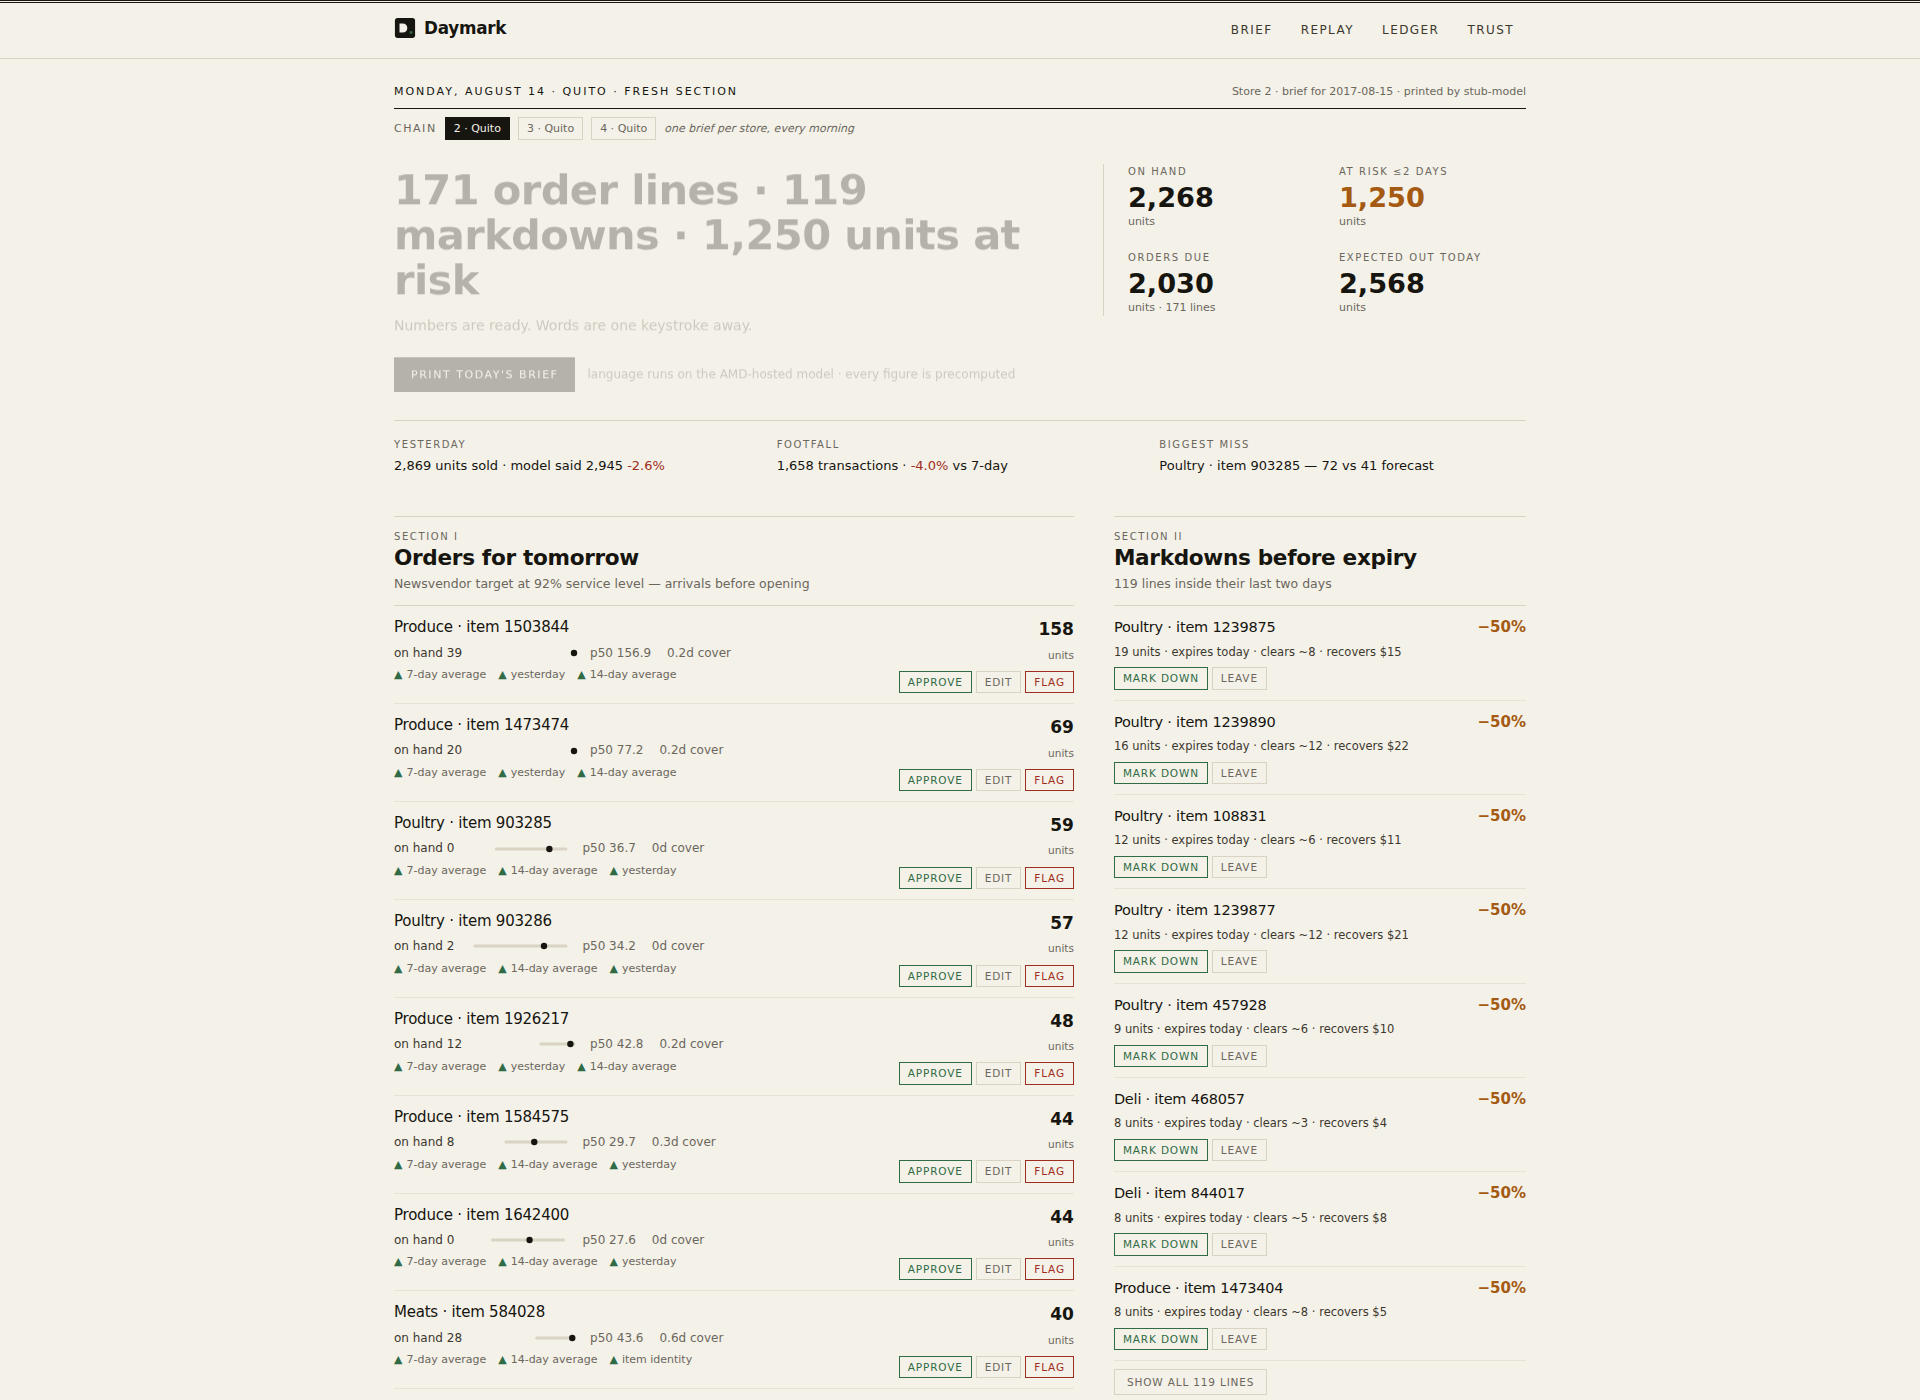
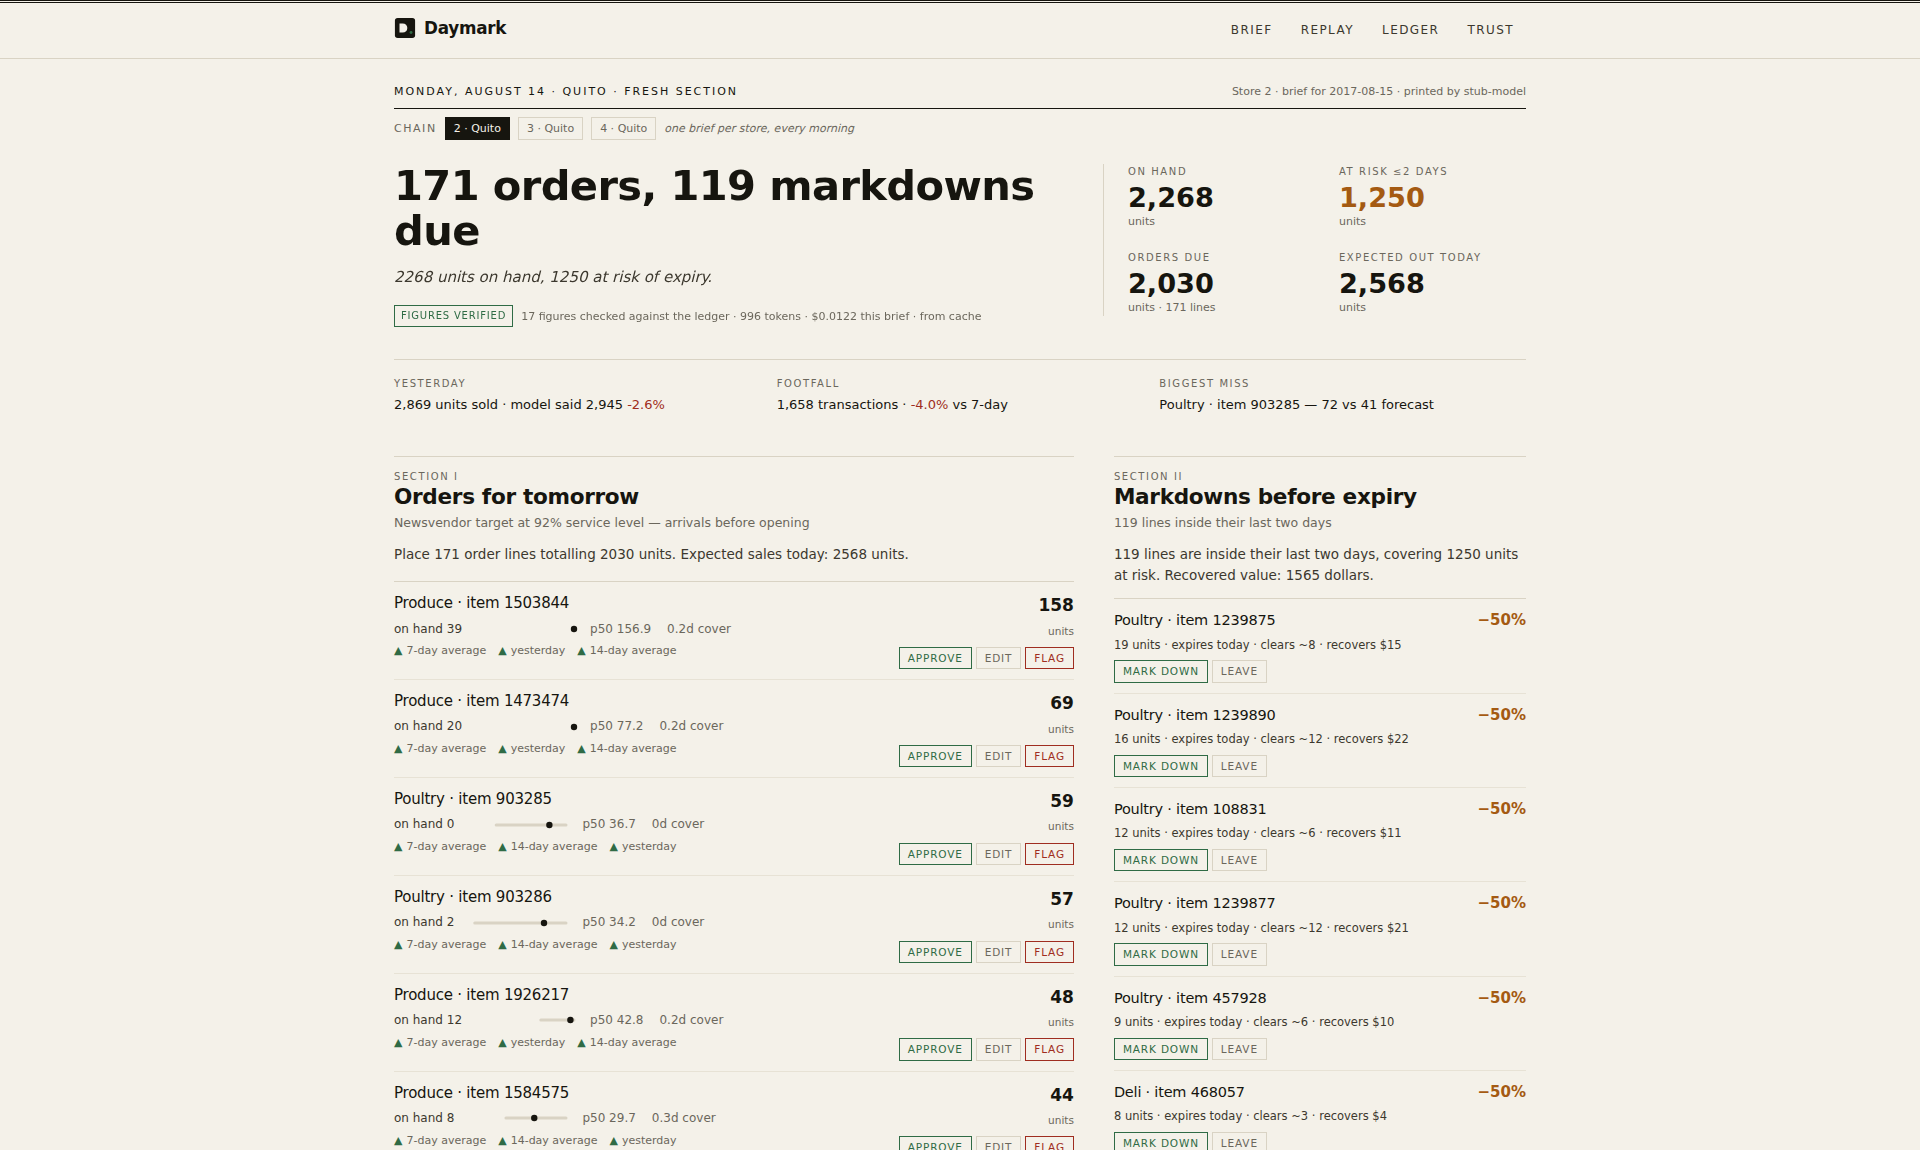
feat: published-brief endpoint (the 6am edition is already there), condensed LLM payload
- GET /api/brief/:store/published serves the cached edition on load
- llm_facts(): the model receives totals + top lines only — prompts drop from
  ~33k to ~1k tokens (34x), and grounding tightens to 'figures you were shown'
- cover_days sentinel fixes a cache round-trip bug (serde_json maps Infinity to null)
- screenshots embedded in the README; stub test double follows the new contract

diff --git a/web/src/app/page.tsx b/web/src/app/page.tsx
@@ -1,5 +1,5 @@
 import BriefClient from "@/components/brief/brief-client";
-import { BriefFacts, Health, Meta, getJSON } from "@/lib/api";
+import { BriefFacts, BriefResponse, Health, Meta, getJSON } from "@/lib/api";
 
 export const instant = false;
 
@@ -12,6 +12,7 @@ export default async function Page(props: {
   const date = sp.date ?? "2017-08-14";
 
   let facts: BriefFacts | null = null;
+  let published: BriefResponse | null = null;
   let model = "";
   let stores: { store_nbr: number; city: string }[] = [];
   try {
@@ -26,6 +27,22 @@ export default async function Page(props: {
   } catch {
     facts = null;
   }
+  if (facts) {
+    try {
+      published = await getJSON<BriefResponse>(`/api/brief/${store}/published?date=${date}`);
+    } catch {
+      published = null; // not printed yet — the manager still sees the numbers
+    }
+  }
 
-  return <BriefClient store={store} date={date} initialFacts={facts} model={model} stores={stores} />;
+  return (
+    <BriefClient
+      store={store}
+      date={date}
+      initialFacts={facts}
+      initialBrief={published}
+      model={model}
+      stores={stores}
+    />
+  );
 }

diff --git a/web/src/components/brief/brief-client.tsx b/web/src/components/brief/brief-client.tsx
@@ -102,17 +102,19 @@ export default function BriefClient({
   store,
   date,
   initialFacts,
+  initialBrief,
   model,
   stores,
 }: {
   store: number;
   date: string;
   initialFacts: BriefFacts | null;
+  initialBrief: BriefResponse | null;
   model: string;
   stores: { store_nbr: number; city: string }[];
 }) {
   const [facts] = useState<BriefFacts | null>(initialFacts);
-  const [brief, setBrief] = useState<BriefResponse | null>(null);
+  const [brief, setBrief] = useState<BriefResponse | null>(initialBrief);
   const [printing, setPrinting] = useState(false);
   const [error, setError] = useState<string | null>(null);
   const [decisions, setDecisions] = useState<DecisionState>({});

diff --git a/backend/src/brief.rs b/backend/src/brief.rs
@@ -161,6 +161,14 @@ pub struct BriefResponse {
     pub cached: bool,
 }
 
+/// Days of cover. Uses a finite sentinel instead of infinity so every fact
+/// round-trips through JSON (serde_json maps non-finite floats to null).
+pub const COVER_DAYS_UNKNOWN: f64 = 999.0;
+
+pub fn cover_days(onhand: f64, avg_daily: f64) -> f64 {
+    if avg_daily > 0.05 { onhand / avg_daily } else { COVER_DAYS_UNKNOWN }
+}
+
 fn why_chips(art: &ArtifactStore, store: i16, item: i32, k: usize) -> Vec<WhyChip> {
     art.attributions
         .get(&(store, item))
@@ -266,7 +274,7 @@ pub fn build_facts(art: &ArtifactStore, store: i16, date: NaiveDate) -> Result<B
                     label: item.label(),
                     family: item.family.clone(),
                     onhand,
-                    cover_days: if avg28 > 0.05 { onhand / avg28 } else { f64::INFINITY },
+                    cover_days: cover_days(onhand, avg28),
                     p10: row.p10,
                     p50: row.p50,
                     p90: row.p90,
@@ -314,7 +322,7 @@ pub fn build_facts(art: &ArtifactStore, store: i16, date: NaiveDate) -> Result<B
         let lift_raw = art.family_lift_pct(&item.family);
         let lift = lift_raw.min(MARKDOWN_LIFT_CAP);
         if let (Some(row), true) = (tomorrow, lift >= 10.0) {
-            let cover = if avg28 > 0.05 { onhand / avg28 } else { f64::INFINITY };
+            let cover = cover_days(onhand, avg28);
             let shelf = item.shelf_life_days as f64;
             if cover > shelf * 0.8 && row.p50 > 0.5 {
                 let incremental = row.p50 * lift / 100.0;
@@ -423,7 +431,7 @@ pub fn build_facts(art: &ArtifactStore, store: i16, date: NaiveDate) -> Result<B
 
     // NOTE: orders and markdowns are returned in full — the manager approves
     // what the totals count; the UI collapses long lists.
-    Ok(BriefFacts {
+    let facts = BriefFacts {
         store,
         date: date.to_string(),
         weekday: weekday_name(date),
@@ -439,7 +447,22 @@ pub fn build_facts(art: &ArtifactStore, store: i16, date: NaiveDate) -> Result<B
         promos,
         watchlist,
         assumptions: art.meta.get("assumptions").cloned().unwrap_or(json!({})),
-    })
+    };
+    // every fact must survive a JSON round-trip (serde_json turns NaN/Infinity
+    // into null, which would corrupt the cached brief and the grounding check)
+    debug_assert!(serde_json::to_value(&facts).is_ok());
+    Ok(facts)
+}
+
+#[cfg(test)]
+mod tests {
+    use super::*;
+
+    #[test]
+    fn cover_days_never_infinite() {
+        assert_eq!(cover_days(10.0, 0.0), COVER_DAYS_UNKNOWN);
+        assert!(cover_days(10.0, 2.0).is_finite());
+    }
 }
 
 fn weekday_name(d: NaiveDate) -> String {
@@ -467,6 +490,90 @@ Hard rules:
 - headline: <= 12 words. dek: one sentence. section summaries: 2-3 sentences each, use the section totals.
 - promo_creative: for up to 2 promo items in FACTS, a shelf-talker headline and a 2-sentence body the store can print."#;
 
+/// The language model receives only what it may talk about: headline totals,
+/// the top lines of each section, and the calendar context. This keeps prompts
+/// small (cheap on AMD), and makes the grounding contract stricter — the model
+/// may only use figures it was actually shown.
+fn llm_facts(facts: &BriefFacts) -> serde_json::Value {
+    let orders: Vec<serde_json::Value> = facts
+        .orders
+        .iter()
+        .take(8)
+        .map(|o| {
+            json!({
+                "item": o.item,
+                "category": o.family,
+                "on_hand_units": o.onhand.round(),
+                "forecast_units": (o.p50 * 10.0).round() / 10.0,
+                "suggested_order_units": o.suggest_qty,
+                "shelf_life_days": o.shelf_life_days,
+                "on_promotion_today": o.promo_today,
+            })
+        })
+        .collect();
+    let markdowns: Vec<serde_json::Value> = facts
+        .markdowns
+        .iter()
+        .take(6)
+        .map(|m| {
+            json!({
+                "item": m.item,
+                "category": m.family,
+                "on_hand_units": m.onhand.round(),
+                "expires_in_days": m.expires_in_days,
+                "cut_percent": (m.cut_pct * 100.0).round(),
+                "expected_clear_units": m.expected_clear_units.round(),
+                "recovered_usd": m.recovered_usd.round(),
+            })
+        })
+        .collect();
+    let promos: Vec<serde_json::Value> = facts
+        .promos
+        .iter()
+        .map(|p| {
+            json!({
+                "item": p.item,
+                "category": p.family,
+                "measured_lift_percent": p.lift_pct.round(),
+                "on_hand_units": p.onhand.round(),
+                "expected_incremental_units": (p.expected_incremental_units * 10.0).round() / 10.0,
+            })
+        })
+        .collect();
+    json!({
+        "brief_date": facts.date,
+        "weekday": facts.weekday,
+        "orders_are_for": facts.generated_for,
+        "store": { "number": facts.store, "city": facts.store_meta.city },
+        "holiday_today": facts.holiday_today,
+        "holiday_tomorrow": facts.holiday_tomorrow,
+        "service_level": facts.service_level,
+        "yesterday": {
+            "units_sold": facts.recap.sales_units.round(),
+            "model_expected_units": facts.recap.p50_units.round(),
+            "delta_percent": (facts.recap.delta_pct * 10.0).round() / 10.0,
+            "transactions": facts.recap.traffic.round(),
+            "transactions_vs_7d_percent": (facts.recap.traffic_vs_7d_pct * 10.0).round() / 10.0,
+        },
+        "totals": {
+            "orders": facts.totals.order_lines,
+            "order_units": facts.totals.order_units,
+            "markdowns": facts.totals.markdown_lines,
+            "at_risk_units": facts.totals.at_risk_units.round(),
+            "recovered_usd": facts.totals.recovered_usd.round(),
+            "waste_avoided_usd": facts.totals.waste_avoided_usd.round(),
+            "on_hand_units": facts.totals.onhand_units.round(),
+            "expected_sales_today_units": facts.totals.expected_sales_today.round(),
+            "promo_candidates": facts.totals.promo_lines,
+            "expected_incremental_units": (facts.totals.expected_incremental_units * 10.0).round() / 10.0,
+        },
+        "orders_top8": orders,
+        "markdowns_top6": markdowns,
+        "promos": promos,
+        "watchlist_items": facts.watchlist.len(),
+    })
+}
+
 pub struct NarrativeOutcome {
     pub narrative: Narrative,
     pub grounding: GroundingReport,
@@ -475,9 +582,9 @@ pub struct NarrativeOutcome {
 }
 
 pub async fn generate_narrative(llm: &LlmClient, facts: &BriefFacts) -> Result<NarrativeOutcome> {
-    let facts_json = serde_json::to_value(facts)?;
+    let llm_payload = llm_facts(facts);
     let mut allowed: Vec<f64> = Vec::new();
-    collect_facts(&facts_json, &mut allowed);
+    collect_facts(&llm_payload, &mut allowed);
     let extra: Vec<f64> = {
         // dates the copy may reference (year / month / day components)
         let mut v = Vec::new();
@@ -492,7 +599,7 @@ pub async fn generate_narrative(llm: &LlmClient, facts: &BriefFacts) -> Result<N
         v
     };
 
-    let facts_json_str = serde_json::to_string(&facts_json)?;
+    let facts_json_str = serde_json::to_string(&llm_payload)?;
     let intro = "Write today's brief from these FACTS. Return only the JSON object.";
 
     let mut usage_total = LlmUsage::default();

diff --git a/devtools/stub_llm.py b/devtools/stub_llm.py
@@ -32,6 +32,7 @@ def facts_from_prompt(content: str) -> dict:
 
 
 def build_narrative(facts: dict) -> dict:
+    """Mirrors the condensed facts payload sent by the backend (see brief.rs llm_facts)."""
     t = facts.get("totals", {})
     promos = facts.get("promos", [])
     creative = []
@@ -39,32 +40,33 @@ def build_narrative(facts: dict) -> dict:
         creative.append(
             {
                 "item": p.get("item", 0),
-                "headline": f"{p.get('family', 'Fresh')} · today only",
+                "headline": f"{p.get('category', 'Fresh')} · today only",
                 "body": (
-                    f"Measured lift {round(p.get('lift_pct', 0))}% on this category. "
-                    f"Shelf stock covers {round(p.get('cover_days', 0))} days."
+                    f"Measured lift {round(p.get('measured_lift_percent', 0))}% on this category. "
+                    f"On hand {round(p.get('on_hand_units', 0))} units."
                 ),
             }
         )
     narrative = {
-        "headline": f"{t.get('order_lines', 0)} orders, {t.get('markdown_lines', 0)} markdowns due",
+        "headline": f"{t.get('orders', 0)} orders, {t.get('markdowns', 0)} markdowns due",
         "dek": (
-            f"{round(t.get('onhand_units', 0))} units on hand, {round(t.get('at_risk_units', 0))} at risk of expiry."
+            f"{round(t.get('on_hand_units', 0))} units on hand, "
+            f"{round(t.get('at_risk_units', 0))} at risk of expiry."
         ),
         "orders_summary": (
-            f"Place {t.get('order_lines', 0)} order lines totalling {t.get('order_units', 0)} units. "
-            f"Expected sales today: {round(t.get('expected_sales_today', 0))} units."
+            f"Place {t.get('orders', 0)} order lines totalling {t.get('order_units', 0)} units. "
+            f"Expected sales today: {round(t.get('expected_sales_today_units', 0))} units."
         ),
         "markdowns_summary": (
-            f"{t.get('markdown_lines', 0)} lines are inside their last two days, "
+            f"{t.get('markdowns', 0)} lines are inside their last two days, "
             f"covering {round(t.get('at_risk_units', 0))} units at risk. "
             f"Recovered value: {round(t.get('recovered_usd', 0))} dollars."
         ),
         "promos_summary": (
-            f"{t.get('promo_lines', 0)} promo candidates, expected "
-            f"{round(t.get('expected_incremental_units', 0))} incremental units."
+            f"{t.get('promo_candidates', 0)} promo candidates, expected "
+            f"{t.get('expected_incremental_units', 0)} incremental units."
         ),
-        "watchlist_summary": f"{len(facts.get('watchlist', []))} items flagged.",
+        "watchlist_summary": f"{facts.get('watchlist_items', 0)} items flagged.",
         "promo_creative": creative,
     }
     return narrative

diff --git a/backend/src/api.rs b/backend/src/api.rs
@@ -143,6 +143,23 @@ async fn brief_generate(
     Ok(Json(resp))
 }
 
+async fn brief_published(
+    State(st): State<AppState>,
+    Path(store): Path<i16>,
+    Query(q): Query<BriefQuery>,
+) -> ApiResult<Json<BriefResponse>> {
+    let date = parse_date(q.date.as_deref().unwrap_or("2017-08-14"))?;
+    let date_s = date.to_string();
+    let cached = ledger::get_cached_brief(&st.db, store, &date_s)
+        .await?
+        .ok_or_else(|| AppError::NotFound(format!("no published brief for store {store} on {date_s}")))?;
+    let mut resp: BriefResponse = serde_json::from_value(cached.payload)
+        .map_err(|e| AppError::Internal(anyhow::anyhow!("bad cached brief: {e}")))?;
+    resp.cached = true;
+    resp.generated_at = cached.created_at;
+    Ok(Json(resp))
+}
+
 async fn decide(State(st): State<AppState>, Json(d): Json<NewDecision>) -> ApiResult<Json<Value>> {
     if !["approve", "edit", "flag", "reject"].contains(&d.action.as_str()) {
         return Err(AppError::BadRequest("action must be approve|edit|flag|reject".into()));
@@ -265,6 +282,7 @@ pub fn router(st: AppState) -> Router {
         .route("/api/health", get(health))
         .route("/api/meta", get(meta))
         .route("/api/brief/{store}", get(brief_facts))
+        .route("/api/brief/{store}/published", get(brief_published))
         .route("/api/brief/{store}/generate", post(brief_generate))
         .route("/api/decisions", post(decide))
         .route("/api/ledger", get(ledger_list))

diff --git a/docs/SUBMISSION.md b/docs/SUBMISSION.md
@@ -100,5 +100,7 @@ Next.js front end: an editorial "morning edition", deliberately not a dashboard.
 - [ ] Record the video (`docs/DEMO.md`), upload (YouTube unlisted is fine), fill `[VIDEO_URL]`
 - [ ] Deploy the demo stack and fill `[DEMO_URL]` (see `infra/docker/compose.yml`)
 - [ ] Run the AMD benchmark and commit `engine/artifacts/benchmark.json`
+- [ ] Re-shoot `docs/assets/brief.png` and `docs/assets/replay.png` once the real
+      Gemma endpoint is serving (the header shows the model id)
 - [ ] Re-run `make smoke` and paste the fresh replay numbers if the simulator changed
 - [ ] Double-check character counts in the form

diff --git a/README.md b/README.md
@@ -38,6 +38,12 @@ gets none of it. Meanwhile the data needed to do better already exists in the st
 - **A tamper-evident workflow.** Approve / edit / flag decisions are appended to a
   SHA-256 hash chain, re-verified on every read.
 
+## What it looks like
+
+![The morning brief](docs/assets/brief.png)
+
+![Replay — the product proving itself](docs/assets/replay.png)
+
 ## Who it is for
 
 The **category manager** of a small-to-mid grocery chain (5–60 stores): not a data
